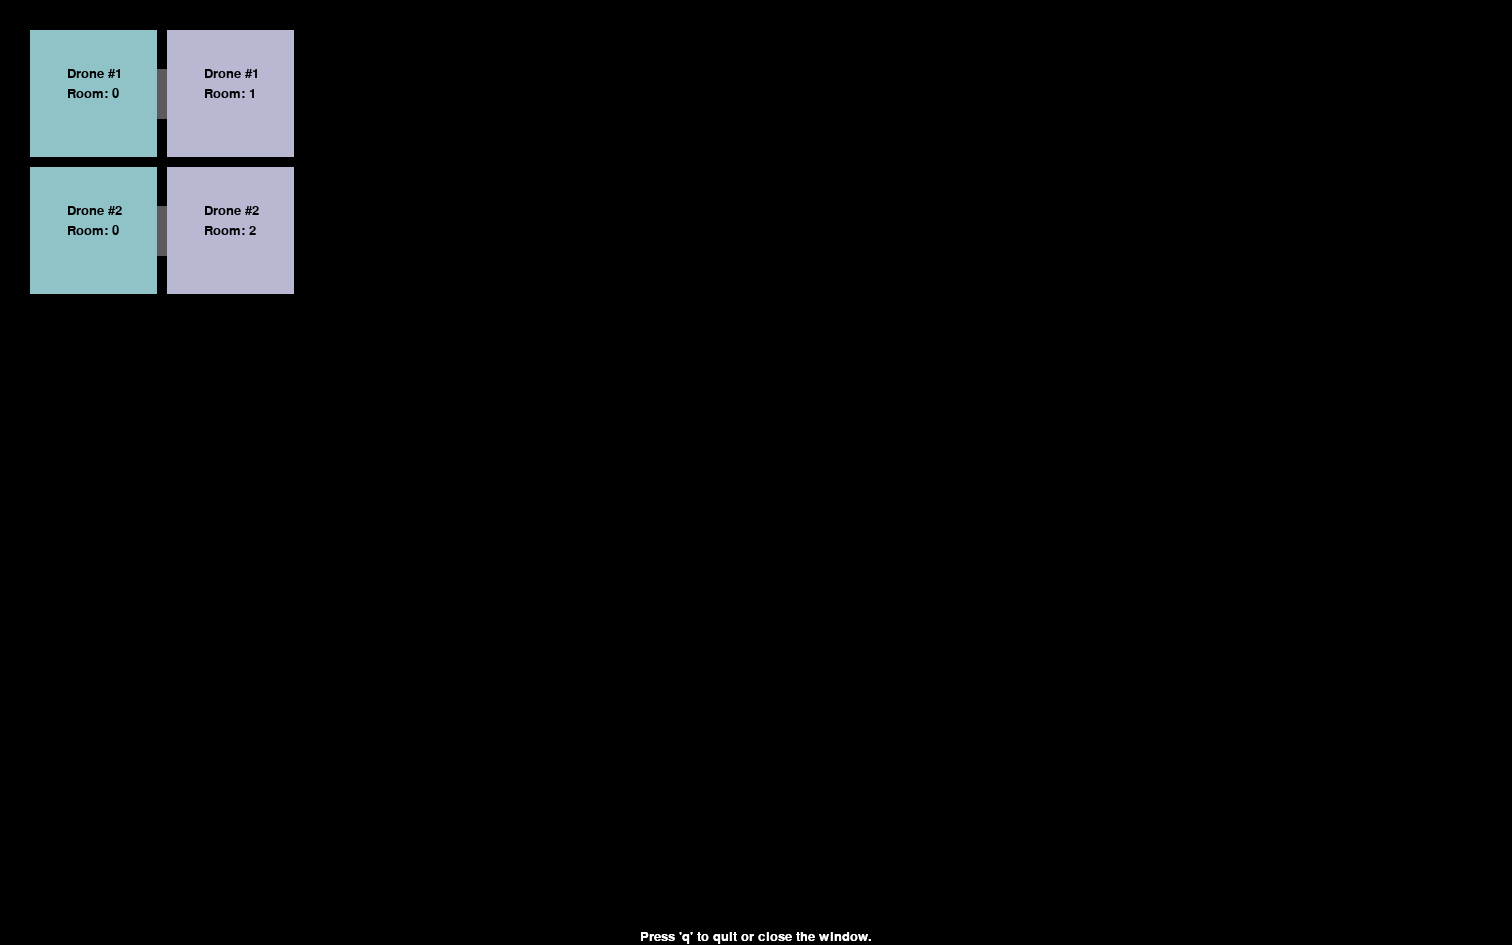
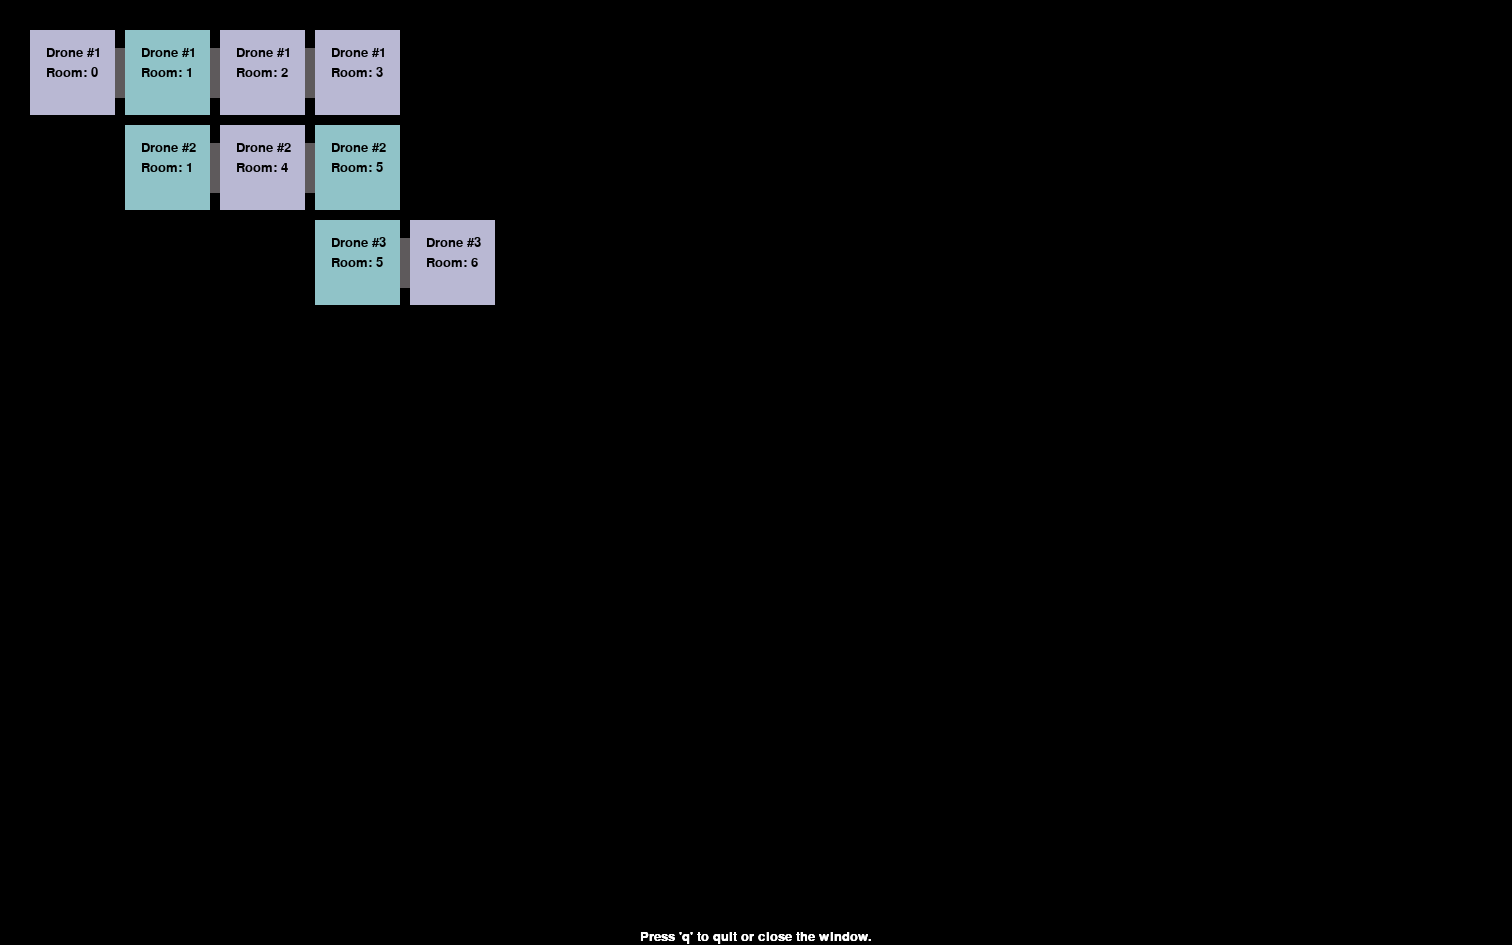
Logger v1

Changed region(s): [[0.0, 0.0307, 0.3419, 0.3376]]

diff --git a/logger.py b/logger.py
@@ -1,0 +1,73 @@
+import logging
+import threading
+from datetime import datetime
+
+
+class UMGLogger:
+    """
+    A simple logger class that writes messages prefixed with a custom name to a single file with a dynamic name based on run date and time.
+    """
+
+    _lock = threading.Lock()
+    _filename = None
+    _handler = None
+
+    def __init__(self, name, level=logging.INFO):
+        """
+        Initializes the logger with a custom name and log level.
+
+        Args:
+            name (str): The name to prefix log messages with.
+            level (int, optional): The logging level. Defaults to logging.INFO.
+        """
+        self.logger = logging.getLogger(name)
+        self.logger.setLevel(level)
+
+        # Acquire lock to ensure thread-safe creation of file handler
+        with UMGLogger._lock:
+            if UMGLogger._handler is None:
+                self.create_file_handler()
+            self.logger.addHandler(UMGLogger._handler)
+
+    def create_file_handler(self):
+        """
+        Creates a new FileHandler with a dynamic filename based on current date and time (called only once).
+        """
+        now = datetime.now().strftime("%Y-%m-%d-%H-%M-%S")
+        filename = f"run-{now}-log.txt"
+
+        UMGLogger._filename = filename
+        handler = logging.FileHandler(filename)
+        formatter = logging.Formatter("%(name)s => %(message)s")
+        handler.setFormatter(formatter)
+        UMGLogger._handler = handler
+
+    def log(self, message, *args, **kwargs):
+        """
+        Logs a message prefixed with the logger name to the current log file.
+
+        Args:
+            message (str): The message to log.
+            *args: Additional arguments to be formatted with the message.
+            **kwargs: Additional keyword arguments to be formatted with the message.
+        """
+        self.logger.log(logging.INFO, message, *args, **kwargs)
+
+    def __call__(self, message, *args, **kwargs):
+        """
+        Allows using the class instance like a function for logging.
+
+        Args:
+            message (str): The message to log.
+            *args: Additional arguments to be formatted with the message.
+            **kwargs: Additional keyword arguments to be formatted with the message.
+        """
+        self.log(message, *args, **kwargs)
+
+
+# # Example usage
+# logger1 = UMGLogger("MainModule")
+# logger2 = UMGLogger("AnotherModule")  # Both use the same file
+
+# logger1("This is a message from the main module.")
+# logger2("This is a message from another module.")

diff --git a/PathFinder/pathFinder.py b/PathFinder/pathFinder.py
@@ -1,8 +1,6 @@
 import os
 from ultralytics import YOLO
 import cv2
-
-
 #Class Types
 classType = {
   '0': "Closed Path",
@@ -86,33 +84,17 @@ class PathFinder:
               result = results[0]
               lastElement = result
               img = cv2.imread(full_path)
-              print("-----Flags----")
-              print(matchesId)
-              print(len(result.boxes)>0)
-              print(isLast)
-              print("-----Id----")
-              print(imageId)
               if(matchesId):
-                print("M si")
                 if(len(result.boxes)>0):
-                  print("R si")
                   if(isLast):
                     break
                   else:
-                    print("L no")
                     pathList = self.processImages(result,pathList,pathId,img)
                     print(pathList)
                     pathId+=1    
                 else:
-                  print("R no")
-                  if(isLast):
-                    print("L2 si")
-                    break
-                  else:
-                    print("L2 no")
                     pass  
               else:
-                print("M no")
                 pathList = self.processImages(result,pathList,pathId,img)
                 imageList[imageId-1].append(sorted(pathList,key=lambda x: x[2][0]))
                 pathList = []

diff --git a/mapGenerator.py b/mapGenerator.py
@@ -1,7 +1,6 @@
 import pygame
 import pygame.font
 import PathAnalyzer.pathAnalyzer as PathAnalyzer
-from PathAnalyzer.Graph import *
 import PathFinder.pathFinder as PathFinder
 
 #Folder Paths
@@ -22,6 +21,12 @@ pathAnalyzer.createRoomsGraph()
 pathAnalyzer.graph.print_graph()
 roomsDict = pathAnalyzer.graph.adj_list
 data = pathAnalyzer.getConnectedRoomsByWeight(roomsDict)
+
+data = {
+    1: [0,1,2,3],
+    2: [1,4,5],
+    3: [5,6]
+}
 
 def create_rectangles(window, data):
     """
